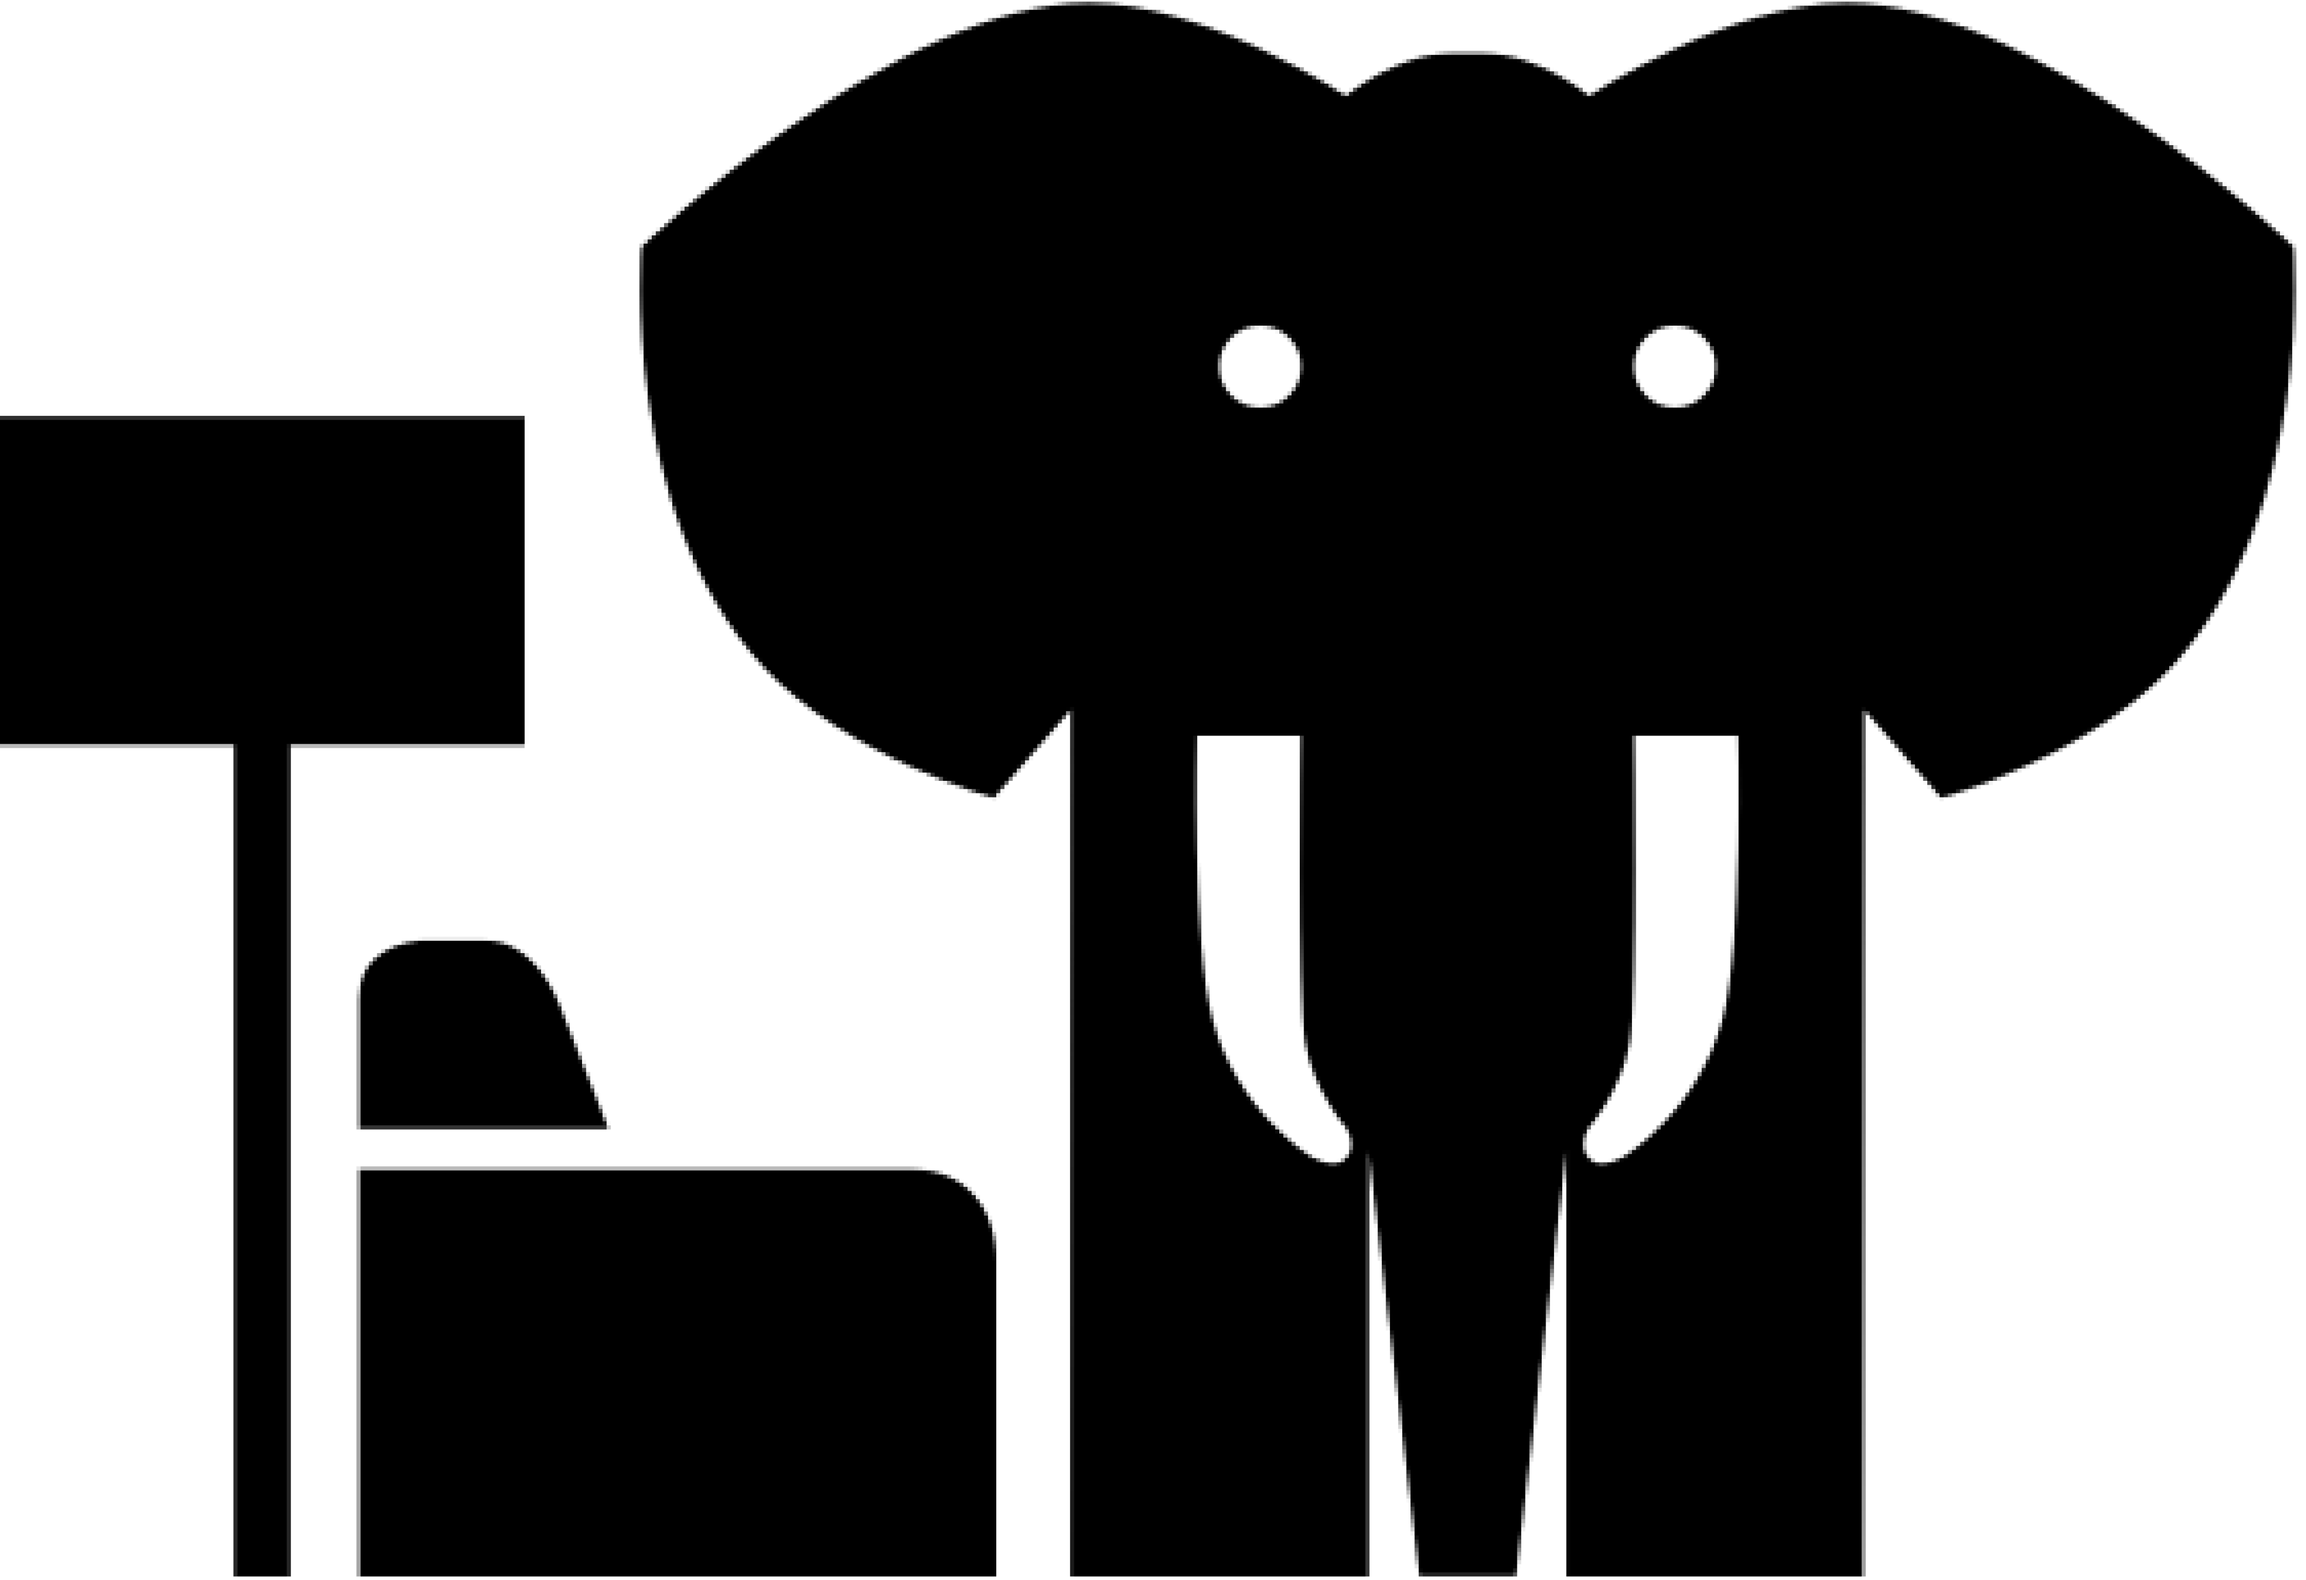
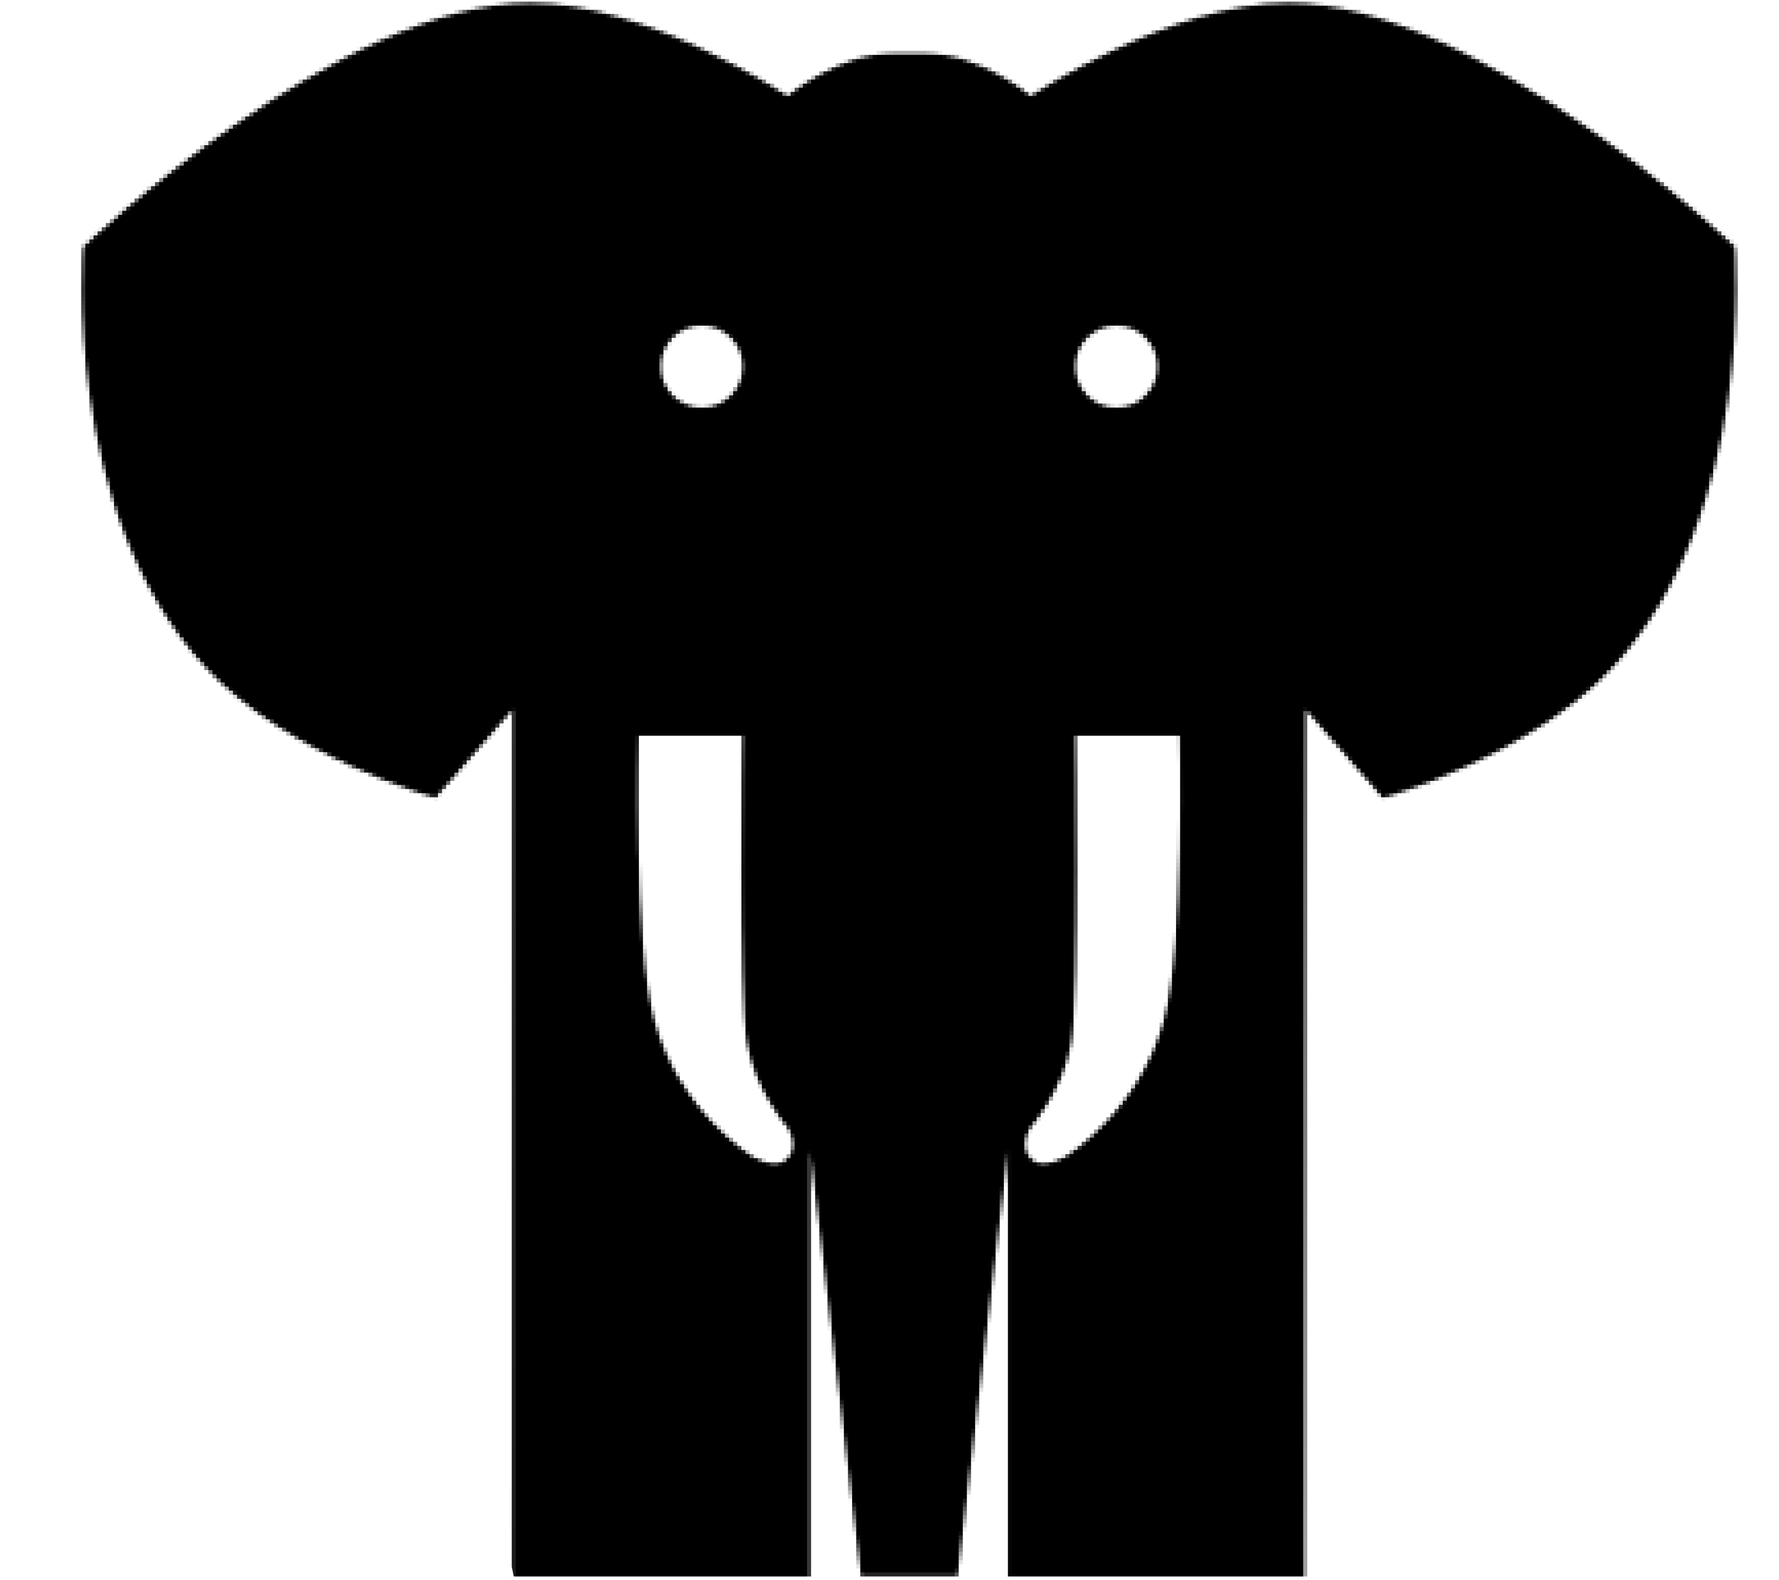
Spring break implementation
Voice interaction (space on hold) && enter to send questions implemented

diff --git a/interface/src/pages/ShhhPlayer.js b/interface/src/pages/ShhhPlayer.js
@@ -28,15 +28,20 @@ import klarissa from "../images/sex/klarissa.png";
 import ellis from "../images/sex/ellis.png";
 import kenny from "../images/sex/kenny.png";
 import kendel from "../images/sex/kendel.png";
-const death_icons = [james, rina, sally, brian, jj, ian, leila, norman];
+import krista from "../images/birth/krista.png";
+import ashley from "../images/birth/ashley.png";
+import alison from "../images/birth/alison.png";
+import kieona from "../images/birth/kieona.png";
+const death_icons = [brian, jj, leila, james, rina, sally, ian, norman];
 const sex_icons = [lucy, lauren, klarissa, ellis, kenny, kendel];
-const birth_icons = [james, rina, sally, brian, jj, ian, leila, norman];
-const death_names = ['James', 'Rina', 'Sally', 'Brian', 'JJ', 'Ian', 'Leila', 'Norman'];
+const birth_icons = [krista, ashley, alison, kieona];
+const death_names = ['Brian', 'JJ', 'Leila', 'James', 'Rina', 'Sally', 'Ian', 'Norman'];
 const sex_names = ['Lucy', 'Lauren', 'Klarissa', 'Ellis', 'Kenny', 'Kendel'];
-const birth_names = ['James', 'Rina', 'Sally', 'Brian', 'JJ', 'Ian', 'Leila', 'Norman'];
-const death_descriptions = ['Description of James', 'Description of Rina', 'Description of Sally', 'Description of Brian', 'Description of JJ', 'Description of Ian', 'Description of Leila', 'Description of Norman'];
+const birth_names = ['Krista', 'Ashley', 'Alison', 'Kieona'];
+const death_descriptions = ['[Brian] A man with Parkinsons and its symptoms that can lead to earlier death', '[JJ] A 34-year-old man has been diagnosed with incurable colon cancer', '[James]Singaporean Man', '[Rina] Singaporean Woman', '[Sally] Singaporean Woman', '[Ian] Singaporean Man', '[Layla] A woman with end-stage renal disease', '[Norman] Singaporean Man'];
 const sex_descriptions = ['Description of Lucy', 'Description of Lauren', 'Description of Klarissa', 'Description of Ellis', 'Description of Kenny', 'Description of Kendel'];
-const birth_descriptions = ['Description of James', 'Description of Rina', 'Description of Sally', 'Description of Brian', 'Description of JJ', 'Description of Ian', 'Description of Leila', 'Description of Norman'];
+const birth_descriptions = ['[Krista] A mother with one child delivered vaginally in a hospital setting and had an epidural.', '[Ashley]A mother of two children, both born vaginally.',
+    '[Alison]A mom of two daughters via two scheduled c-sections', '[Kieona]A mother of one daughter had a regular vaginal birth.'];
 const death_questions = [
     "Are you afraid of death?",
     "Who is not invited to your funeral?",
@@ -56,6 +61,13 @@ const sex_questions = [
 ];
 
 const birth_questions = [
+    "Do you poop while giving birth?",
+    "Did you use mirror?",
+    "How long was your labor?",
+    "How would you describe the pain?",
+    "What happens after giving birth",
+    "Did you tear your vagina while giving birth?"
+
 
 ];
 
@@ -102,6 +114,8 @@ function ShhhPlayer() {
     const [micMute, setMicMute] = useState(true);
     const [micString, setMicString] = useState("ASK BY VOICE");
     const interacting = React.useRef(false);
+    const [textInputValue, setTextInputValue] = React.useState("");
+    const [dataIsFinal, setDataIsFinal] = React.useState(null)
 
     useEffect(() => {
         // Login check. Note: This is very insecure and naive approach. Replace once a proper authentication system has been adopted.
@@ -157,6 +171,92 @@ function ShhhPlayer() {
             setIconDescriptions(birth_descriptions);
         }
     }, [streamNameToTalk]);
+
+    //ask question on enter 
+    useEffect(() => {
+        const listener = event => {
+            if (event.code === "Enter" || event.code === "NumpadEnter") {
+                event.preventDefault();
+
+                submitResponse(event, "SEARCH");
+            }
+        };
+        document.addEventListener("keydown", listener);
+        return () => {
+            document.removeEventListener("keydown", listener);
+        };
+    }, []);
+
+    //press space bar to unmute
+    const [isSpaceKeyPressed, setIsSpaceKeyPressed] = React.useState(false);
+    const isSpaceKey = React.useRef("false")
+    const firstRender = React.useRef(false)
+
+    useEffect(() => {
+        // listener for spacebar down
+        // console.log("current", isSpaceKey.current)
+        const listenDown = event => {
+            if (textInputValue == "" && event.code === "Space" && isSpaceKey.current === "false") {
+                event.preventDefault();
+                setIsSpaceKeyPressed(true)
+                isSpaceKey.current = "true"
+                // isSpaceKeyPressed = true;
+                // micStatusChange(event);
+                setMicMute(false)
+                // console.log(micMute)
+                console.log("key down");
+            }
+        };
+        // listener for spacebar up
+        const listenUp = event => {
+            if (textInputValue == "" && event.code === "Space" && isSpaceKey.current === "true") {
+                event.preventDefault();
+                // micStatusChange(event);
+                setIsSpaceKeyPressed(false)
+                isSpaceKey.current = "false"
+                setMicMute(true)
+                // isSpaceKeyPressed = false;
+                // console.log(micMute)
+                console.log("key up");
+
+                // submitResponse(event, "SEARCH");
+            }
+        };
+        document.addEventListener("keydown", listenDown);
+        document.addEventListener("keyup", listenUp);
+        return () => {
+            document.removeEventListener("keydown", listenDown);
+            document.removeEventListener("keyup", listenUp);
+        };
+    }, []);
+
+    useEffect((e) => {
+    
+        if (firstRender.current){
+            if (!micMute) {
+                speechToTextUtils.stopRecording();
+                // console.log(dataIsFinal)
+                if (dataIsFinal === false) {
+                    textInput.current = transcribedAudio
+                    submitResponse(e, "SEARCH")
+                }
+                // dataIsFinal === false ? textInput.current = transcribedAudio || submitResponse(e, "SEARCH") : null;
+    
+            } else {
+                interacting.current = true;
+                speechToTextUtils.initRecording(handleDataReceived, (error) => {
+                    console.error("Error when transcribing", error);
+                    // No further action needed, as stream already closes itself on error
+                });
+            }
+        } else{
+            firstRender.current = true
+        }
+       
+
+    }, [isSpaceKeyPressed])
+
+
 
     const [state, dispatch] = React.useReducer(exampleReducer, { open: false });
     const { open } = state;
@@ -259,9 +359,10 @@ function ShhhPlayer() {
         // setting the transcribedAudio
         if (data) {
             setTranscribedAudio(data.alternatives[0].transcript);
+            setDataIsFinal(false)
             if (data.isFinal) {
                 question.current = data.alternatives[0].transcript;
-
+                setDataIsFinal(true)
                 // speechToTextUtils.stopRecording();
                 fetchData("VOICE");
             }
@@ -378,12 +479,18 @@ function ShhhPlayer() {
     function endTranscription() {
         speechToTextUtils.stopRecording();
     }
-    const micStatusChange = () => {
+    const micStatusChange = (e) => {
         if (!micMute) {
             speechToTextUtils.stopRecording();
+            // console.log(dataIsFinal)
+            if (dataIsFinal === false) {
+                textInput.current = transcribedAudio
+                submitResponse(e, "SEARCH")
+            }
+            // dataIsFinal === false ? textInput.current = transcribedAudio || submitResponse(e, "SEARCH") : null;
+
         } else {
             interacting.current = true;
-
             speechToTextUtils.initRecording(handleDataReceived, (error) => {
                 console.error("Error when transcribing", error);
                 // No further action needed, as stream already closes itself on error
@@ -449,6 +556,8 @@ function ShhhPlayer() {
     function textChange(e) {
         textInput.current = `${textInput.current} ${e.target.value}`;
         interimTextInput.current = textInput.current;
+        console.log(interimTextInput.current)
+        setTextInputValue(e.target.value);
         console.log(textInput.current)
     }
 
@@ -501,6 +610,7 @@ function ShhhPlayer() {
                 });
             textInput.current = "";
             interimTextInput.current = "";
+            setTextInputValue("");
         }
     }
 
@@ -748,7 +858,7 @@ function ShhhPlayer() {
                     </TransitionGroup>
                 )}
                 {micMute ? (
-                    <button className="ui secondary button shhh-mute-button" onClick={micStatusChange}>
+                    <button className="ui secondary button shhh-mute-button" onClick={e => micStatusChange(e)}>
                         <i aria-hidden="true">
                             <VoiceOverOffRoundedIcon />
                         </i>
@@ -830,10 +940,12 @@ function ShhhPlayer() {
                     <SuggestiveSearch
                         handleTextChange={textChange}
                         questions={allQuestions.current}
+                        textInputValue={textInputValue}
                     />
                     <form onSubmit={e => {
                         e.preventDefault();
                         submitResponse(e, "SEARCH");
+
                     }}>
                         <button
                             type="submit"

diff --git a/interface/src/pages/ShhhPage.css b/interface/src/pages/ShhhPage.css
@@ -12,6 +12,20 @@
 	width: 0;
   }
 
+  h1.title{
+	position: absolute;
+	font-family: 'Work Sans', sans-serif;
+	top: 8vw;
+	width: 100vw;
+	left: 50vw;
+	font-size: 3vw;
+	text-align: center;
+	transform: translateX(-50%);
+	color: white;
+  }
+  
+  
+
 .shhh-grid {
 	overflow-y: scroll;
 	height: 82%;
@@ -149,9 +163,10 @@
 
 .elephant {
 	position: absolute;
+	opacity:0.2;
 	width: 50vw;
 	top: 50%;
-	left: 50%;
+	left: 50vw;
 	transform: translate(-50%, -50%);
   }
 
@@ -288,6 +303,12 @@ display: none;
 
 .ask_box .css-1qqsdnr-MuiAutocomplete-root .MuiOutlinedInput-root {
 	height: 4vw !important;
+}
+
+.ask_box .MuiInputBase-input{
+	height:4vw !important;
+	padding:0;
+	padding-left: 1vw;
 }
 
 .MuiInputBase-root.MuiOutlinedInput-root.MuiInputBase-colorPrimary.MuiInputBase-fullWidth.MuiInputBase-formControl.MuiAutocomplete-inputRoot.css-md26zr-MuiInputBase-root-MuiOutlinedInput-root{

diff --git a/interface/src/pages/ShhhPage.js b/interface/src/pages/ShhhPage.js
@@ -10,7 +10,7 @@ import Tracker from "../utils/tracker";
 import elephant from "../images/elephant.png";
 import './ShhhPage.css';
 
-const BirthText = "Engage in stories and discussions on the miraculous journey of bringing new life into the world.";
+const BirthText = "Ask moms about childbirth experiences that you are too afraid to ask, from labor horror stories to post-pregnancy changes.";
 const DeathText = "Talk about the finality of life and let's address elephant in the room";
 const SexText = "Join to have open, honest, and playful conversations around sex.";
 
@@ -164,6 +164,7 @@ function ShhhPage() {
 				showLoginModal={true}
 			/> */}
 			<img src={elephant} className="elephant" alt="ELEPHANT IN THE ROOM" />
+			<h1 class="title">Elephant In the Room</h1>
 			<Modal //This is the stream settings pop menu
 				size="large"
 				closeIcon={true}

diff --git a/interface/src/suggestiveSearch/shhhsuggestiveSearch.js b/interface/src/suggestiveSearch/shhhsuggestiveSearch.js
@@ -7,6 +7,7 @@ export default function FreeSoloCreateOption(props) {
     return (
         <TextField
             placeholder={"Type and click send button!"}
+            value={props.textInputValue}
             sx={{
                 backgroundColor: "rgba(126, 124, 124, 0.1)",
                 left: 0,
@@ -32,8 +33,8 @@ export default function FreeSoloCreateOption(props) {
                     color: "#ffffff",
                 }, // Add this
             }}
-            onChange={value => {
-                props.handleTextChange(value);
+            onChange={e => {
+                props.handleTextChange(e);
             }}
         />
     );
